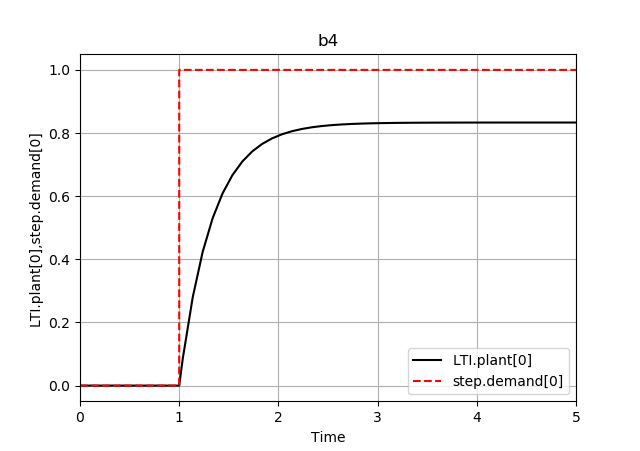
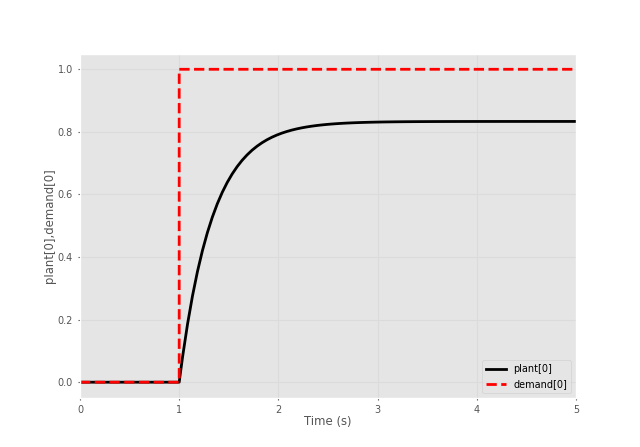
update README and example

diff --git a/examples/eg1.py b/examples/eg1.py
@@ -2,7 +2,7 @@
 
 import bdsim
 
-sim = bdsim.BDSim(animation=True)  # create simulator
+sim = bdsim.BDSim(animation=True, hold=False)  # create simulator
 bd = sim.blockdiagram()  # create an empty block diagram
 
 # define the blocks
@@ -25,7 +25,7 @@ bd.report()
 bd.report_summary()  # list all blocks and wires
 
 out = sim.run(bd)  # , watch=[demand, sum])  # simulate for 5s
-# out = sim.run(bd, 5 watch=[plant,demand])  # simulate for 5s
+# out = sim.run(bd, watch=[plant, demand])  # simulate for 5s
 print(out)
 
-# sim.savefig(scope, 'scope0') # save scope figure as scope0.pdf
+scope.savefig()  # save scope figure as scope0.pdf

diff --git a/README.md b/README.md
@@ -101,10 +101,8 @@ which we can express concisely with `bdsim` as (see [`bdsim/examples/eg1.py`](ht
     22	bd.report()    # list all blocks and wires
     23
     24  out = sim.run(bd, 5)   # simulate for 5s
-    25  sim.savefig(scope, 'scope0')
-    26  sim.done(bd, block=True)
 ```
-which is just 16 lines of executable code.
+which is just 15 lines of executable code.
 
 The red block annotations on the hand-drawn diagram are used as the names of the variables holding references to the block instance. The blocks can also have user-assigned names, see lines 8 and 11, which are used in diagnostics and as labels in plots.
 
@@ -172,31 +170,36 @@ using the default variable-step RK45 solver and saves output values at least eve
 
 ![bdsim output](https://github.com/petercorke/bdsim/raw/master/figs/Figure_1.png)
 
-The simulation results are in a container object
+The simulation results are in a container object (`BDStruct`)
 ```
 >>> out
-results:
-t           | ndarray (67,)
-x           | ndarray (67, 1)
-xnames      | list              
+t      = ndarray:float64 (123,)
+x      = ndarray:float64 (123, 1)
+xnames = ['plantx0'] (list)
+ynames = [] (list)            
 ```
-which contains an array of time values, an array of state values, and a list of the names of the state variables.
+which contains an array of time values, an array of state values, and a list of the
+names of the state variables.
 
-Line 25 saves the content of the scope to be saved in the file called `scope0.pdf`.
+By default the `.run()` method at line 24 blocks blocks the script until all figure
+windows are closed (by pressing the operating system close button or typing "q"), or the
+script is killed with SIGINT. If you want to continue the script with the figures still
+active then the `hold=False` option should be set.
 
-Line 26 blocks the script until all figure windows are closed, or the script is killed with SIGINT.
-
-The result `out` is effectively a structure with elements
-
+If we wished to also record additional outputs, we can add them as _watched_ signals
+```
+out = sim.run(bd, watch=[demand, sum])  # simulate for 5s
+```
+and now the output is
 ```
 >>> out
-results:
-t           | ndarray (67,)
-x           | ndarray (67, 1)
-xnames      | list        
-y0          | ndarray (67,)
-y1          | ndarray (67,)
-ynames      | list   
+t      = ndarray:float64 (123,)
+x      = ndarray:float64 (123, 1)
+xnames = ['plantx0'] (list)
+y0     = ndarray:float64 (123,)
+y1     = ndarray:int64 (123,)
+ynames = ['plant[0]', 'demand[0]'] (list)
+(dev) [130 ~...code/bdsim/examples]  % 
 ```
 where
 
@@ -208,16 +211,65 @@ The `watch` argument is a list of outputs to log, in this case `plant` defaults
 to output port 0.  This information is saved in additional variables `y0`, `y1`
 etc.  `ynames` is a list of the names of the watched variables.
 
-Line 29 saves the scope graphics as a PDF file.
+An alternative system report, created by `bd.report_summary` is more compact
+```
+┌────────┬────────┬────────┬─────────────┐
+│ block  │ inport │ source │ source type │
+├────────┼────────┼────────┼─────────────┤
+│demand@ │        │        │             │
+├────────┼────────┼────────┼─────────────┤
+│gain.0  │ 0      │ sum.0  │ float64     │
+├────────┼────────┼────────┼─────────────┤
+│plant   │ 0      │ gain.0 │ float64     │
+├────────┼────────┼────────┼─────────────┤
+│scope.0 │ 0      │ plant  │ float64     │
+│        │ 1      │ demand │ int         │
+├────────┼────────┼────────┼─────────────┤
+│sum.0   │ 0      │ demand │ int         │
+│        │ 1      │ plant  │ float64     │
+└────────┴────────┴────────┴─────────────┘
+```
 
-Line 30 blocks until the last figure is dismissed.
+To save figures we need to make two modifications, changing line 4 to
+```
+     4  sim = bdsim.BDSim(hold=False)  # create simulator
+```
+which prevents `.run()` from blocking and then deleting all the figures.
+Then, after the `.run()` we add 
+```
+     25 scope.savefig()  # save scope figure
+```
+If the filename is not given it defaults to the block name, in this case `scope.0.pdf`.
+
+
+The output can be pickled and written to a file
+
+```[shell]
+examples/eg1.py -o
+python -mpickle bd.out
+t      = ndarray:float64 (123,)
+x      = ndarray:float64 (123, 1)
+xnames = ['plantx0'] (list)
+y0     = ndarray:float64 (123,)
+y1     = ndarray:int64 (123,)
+ynames = ['plant[0]', 'demand[0]'] (list)
+```
+
+by default the results are written to `bd.out`, use the option `--out FILE` to set it
+to a specific value.
+
+The block parameters can also be overridden from the command line without having to 
+edit the code.  To increase the loop gain we could write:
+```[shell]
+examples/eg1.py --set gain.0:K=20
+```
 
 More details on this Wiki about:
 
-- [Adding blocks](Adding-blocks)
-- [Connecting blocks](Connecting-blocks)
-- [Running the simulation](Running)
-
+- [Adding blocks](https://github.com/petercorke/bdsim/wiki/Adding-blocks)
+- [Connecting blocks](https://github.com/petercorke/bdsim/wiki/Connecting-blocks)
+- [Running the simulation](https://github.com/petercorke/bdsim/wiki/Running)
+- [Command line options](https://github.com/petercorke/bdsim/wiki/Runtime-options)
 
 ## Other examples
 
